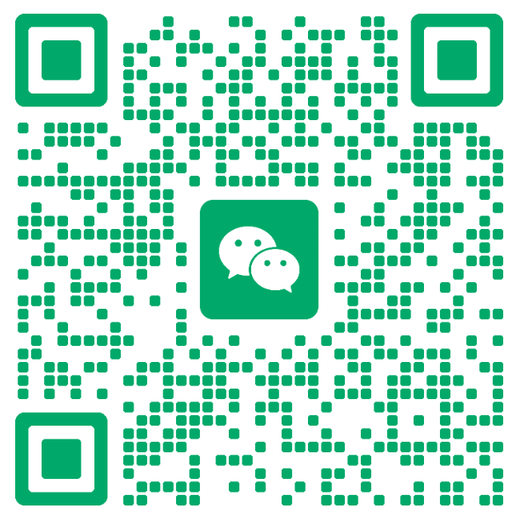
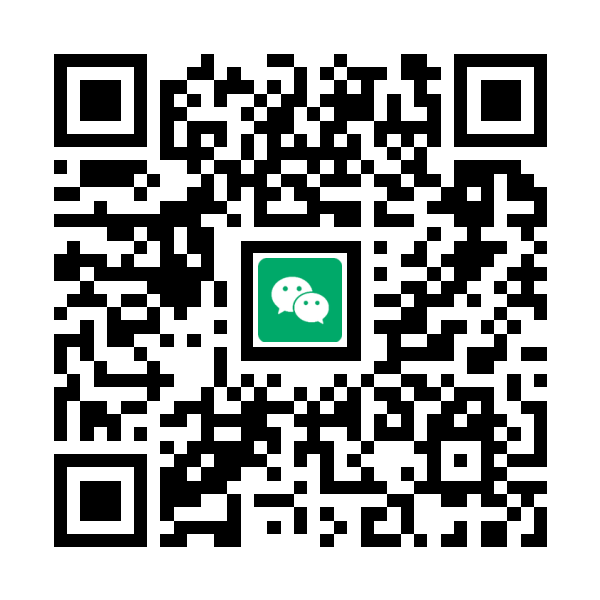
手机版商品列表先显示前3个小类+显示全部按钮；二维码不再包在链接里，可长按；微信二维码重做（加白边，标准黑白）；点二维码放大
Claude-Session: https://claude.ai/code/session_01EapkdAZuY1J5DZKGNmtVd8

diff --git a/index.html b/index.html
@@ -578,7 +578,7 @@ legend{font-family:var(--en-display);font-size:13px;letter-spacing:.1em;text-tra
 .altbtn:hover{border-color:var(--green)}
 .contact .qrs{display:flex!important;flex-direction:row!important;gap:12px;flex-wrap:wrap;margin-top:6px;grid-template-columns:none}
 .contact .qr{display:grid;justify-items:center;flex:0 0 auto;gap:2px;text-decoration:none;color:inherit;background:#fff;border:1px solid var(--line);border-radius:10px;padding:10px;width:150px;text-align:center}
-.qr img{width:130px;height:130px}.qr b{font-size:14px;color:#222}.qr small{font-size:11px;color:#666}
+.qr img{width:130px;height:130px}.qr img,.wxqr,.qrlb img{-webkit-touch-callout:default!important;-webkit-user-select:auto;user-select:auto;pointer-events:auto;cursor:zoom-in}.qrbtn{margin-top:6px;display:block;width:100%;border:0;border-radius:8px;background:#25d366;color:#fff;font:inherit;font-size:12px;font-weight:700;padding:7px 4px;text-decoration:none;cursor:pointer}.qr:last-child .qrbtn{background:#07c160}@media(max-width:760px){.contact .qrs{flex-wrap:nowrap;gap:8px}.contact .qr{flex:1 1 0;width:auto;min-width:0;padding:7px}.contact .qr img{width:100%;height:auto;aspect-ratio:1}.qrbtn{font-size:12px;padding:7px 2px}}.qrlb{position:fixed;inset:0;z-index:9999;background:rgba(0,0,0,.82);display:flex;flex-direction:column;align-items:center;justify-content:center;gap:14px;padding:20px}.qrlb[hidden]{display:none!important}.qrlb img{width:min(78vw,340px);height:auto;background:#fff;border-radius:12px;padding:10px;cursor:default}.qrlb p{color:#fff;text-align:center;margin:0;font-size:14px;line-height:1.5;max-width:340px}.qrlb .qrx{background:#fff;color:#222;border:0;border-radius:20px;padding:9px 22px;font:inherit;font-weight:700}.listmore{grid-column:1/-1;display:flex;justify-content:center;margin:14px 0 4px}.listmore .more{width:100%;max-width:420px;padding:12px;font-size:15px}.qr b{font-size:14px;color:#222}.qr small{font-size:11px;color:#666}
 .wxbox{border:1px solid var(--line);border-radius:10px;padding:12px 14px;margin:8px 0;background:var(--surface);font-size:14px}
 .wxbox ol{margin:6px 0 8px;padding-left:20px}.wxbox li{margin:4px 0}
 .wxok{margin:0;font-weight:700;color:#07a35a}
@@ -835,9 +835,9 @@ button.wa{width:100%;border:0;cursor:pointer;font-family:inherit}
       <div><strong><span class="lz">地址</span> <span class="le">Address</span></strong><span>29–37 Beast Market<br>Huddersfield<br>HD1 1QF</span><span class="since2"><span class="lz">自 2007 年起在 Beast Market 营业</span><span class="lb"> · </span><span class="le">On Beast Market since 2007</span></span><a class="copy" href="https://www.google.com/maps/search/?api=1&query=29-37+Beast+Market+Huddersfield+HD1+1QF" target="_blank" rel="noopener" style="text-decoration:none"><span class="lz">在地图中打开</span> <span class="le">Open in Maps</span></a></div>
       <div><strong><span class="lz">邮箱</span> <span class="le">Email</span></strong><span>info@dongdong.co.uk</span></div>
       <div class="qrs">
-        <a class="qr" href="https://wa.me/447546185999" target="_blank" rel="noopener"><img src="img/whatsapp_qr.png" alt="WhatsApp 二维码 WhatsApp QR code" width="140" height="140" loading="lazy"><b>WhatsApp</b><small><span class="lz">扫码或点击聊天</span><span class="lb"> · </span><span class="le">Scan or tap to chat</span></small></a>
-        <a class="qr" href="https://whatsapp.com/channel/0029VbEYhPw0AgW9nWthc21L" target="_blank" rel="noopener"><img src="img/wa_channel_qr.png" alt="WhatsApp 频道二维码 WhatsApp Channel QR code" width="140" height="140" loading="lazy"><b><span class="lz">频道</span><span class="lb"> </span><span class="le">Channel</span></b><small><span class="lz">关注看新货、特价</span><span class="lb"> · </span><span class="le">New in &amp; offers</span></small></a>
-        <a class="qr" href="img/wechat_qr.png" download="东东超市微信二维码.png"><img src="img/wechat_qr.png" alt="微信二维码 WeChat QR code" width="140" height="140" loading="lazy"><b><span class="lz">微信</span><span class="lb"> </span><span class="le">WeChat</span></b><small><span class="lz">扫码加好友 · 点击保存</span><span class="lb"> · </span><span class="le">Scan to add · tap to save</span></small></a>
+        <div class="qr"><img src="img/whatsapp_qr.png" alt="WhatsApp 二维码 WhatsApp QR code" width="140" height="140" loading="lazy" data-qrbig="whatsapp"><b>WhatsApp</b><a class="qrbtn" href="https://wa.me/447546185999" target="_blank" rel="noopener"><span class="lz">点击聊天</span><span class="lb"> </span><span class="le">Chat</span></a></div>
+        <div class="qr"><img src="img/wa_channel_qr.png" alt="WhatsApp 频道二维码 WhatsApp Channel QR code" width="140" height="140" loading="lazy" data-qrbig="channel"><b><span class="lz">频道</span><span class="lb"> </span><span class="le">Channel</span></b><a class="qrbtn" href="https://whatsapp.com/channel/0029VbEYhPw0AgW9nWthc21L" target="_blank" rel="noopener"><span class="lz">点击关注</span><span class="lb"> </span><span class="le">Follow</span></a></div>
+        <div class="qr"><img src="img/wechat_qr.png" alt="微信二维码 WeChat QR code" width="140" height="140" loading="lazy" data-qrbig="wechat"><b><span class="lz">微信</span><span class="lb"> </span><span class="le">WeChat</span></b><button type="button" class="qrbtn" data-saveqr="img/wechat_qr.png"><span class="lz">保存图片</span><span class="lb"> </span><span class="le">Save</span></button></div>
       </div>
     </div>
     <div style="display:grid;gap:18px;align-content:start"><div><h3><span class="lz">付款方式</span><span class="lb"> · </span><span class="le">Payment</span></h3><p style="margin:0"><span class="lz">到店：现金、刷卡、非接触支付、银行转账、人民币付款<br>送货：现金、银行转账、人民币付款</span><span class="le blk en">In store: cash, card, contactless, bank transfer<br>Delivery: cash, bank transfer</span></p></div>
@@ -918,8 +918,8 @@ button.wa{width:100%;border:0;cursor:pointer;font-family:inherit}
         <li><span class="lz">加东東微信：扫下面的二维码。用这部手机的话，先长按二维码保存图片，再在微信"扫一扫"里点右下角"相册"选这张图。</span><span class="le blk">Add Dong Dong on WeChat: scan the QR code. On this phone, save the image first, then use WeChat Scan → Album.</span></li>
         <li><span class="lz">在和东東的对话里长按输入框，点"粘贴"，发送。</span><span class="le blk">In the chat, long-press the text box, paste and send.</span></li>
       </ol>
-      <img src="img/wechat_qr.png" alt="东東超市微信二维码 Dong Dong WeChat QR code" class="wxqr" width="220" height="220">
-      <div class="wxbtns"><a class="altbtn" href="img/wechat_qr.png" download="东东超市微信二维码.png"><span class="lz">保存二维码</span> <span class="le">Save QR</span></a><a class="altbtn" href="weixin://"><span class="lz">打开微信</span> <span class="le">Open WeChat</span></a></div>
+      <img src="img/wechat_qr.png" alt="东東超市微信二维码 Dong Dong WeChat QR code" class="wxqr" data-qrbig="wechat" width="220" height="220">
+      <div class="wxbtns"><button type="button" class="altbtn" data-saveqr="img/wechat_qr.png"><span class="lz">保存二维码</span> <span class="le">Save QR</span></button><a class="altbtn" href="weixin://"><span class="lz">打开微信</span> <span class="le">Open WeChat</span></a></div>
     </div>
     <p class="note" id="copyNote" hidden><span class="lz">订单已复制，可以粘贴到短信、微信或其他 App 发给我们（07546 185999）。</span><span class="le blk">Order copied. Paste it into a text message or any app and send it to 07546 185999.</span></p>
     <p class="note sendnote" data-for="wa"><span class="lz">订单会自动填好，在打开的 WhatsApp 里点一下发送 ➤ 就行。订单以我们回复确认为准，价格以店内为准。</span><span class="le blk">Your order is filled in for you. Just tap send ➤ in WhatsApp. Your order is confirmed once we reply.</span></p>
@@ -2897,6 +2897,7 @@ function _searchAll(raw){raw=toSimp(raw);const q=raw.toLowerCase().replace(/chil
   return full.length>=8?full.map(r=>r.p):full.concat(part.slice(0,40)).map(r=>r.p);}
 // 分区首页每个小类先显示几样
 const openGroups=new Set(); // 已展开的小类
+const MOB=matchMedia("(max-width:760px)").matches,GRP_SHOW=3,FLAT_SHOW=24;let listAll=false,listKey=""; /* 手机版：先只显示前几个小类/前24样，底部"显示全部"按钮，方便往下看到联系方式和二维码 */
 const GROUP_N=matchMedia("(max-width:760px)").matches?4:8;
 const GROUP_N_MIN={soy:6};  // 某些分类手机上多显示几样（酱油：海天生抽/老抽、李锦记生抽/老抽、珠江桥生抽/老抽）
 const GN=id=>Math.max(GROUP_N,GROUP_N_MIN[id]||0);
@@ -2916,13 +2917,18 @@ function render(){
     const groups=agroup?CATS.filter(c=>c.id!=="all").map(c=>({c,items:list.filter(p=>p.c===c.id)})).filter(g=>g.items.length).sort((x,y)=>AGR(x)-AGR(y)):CATS.filter(c=>c.id!=="all"&&c.z===zone).map(c=>({c,items:list.filter(p=>inCat(p,c.id))})).filter(g=>g.items.length);
     const foldable=groups.filter(g=>g.items.length>GN(g.c.id)),allOpen=foldable.length&&foldable.every(g=>openGroups.has(g.c.id));
     const allBtn=foldable.length>1?`<div class="allfold"><button type="button" class="more allbtn" data-foldall="${allOpen?0:1}">${allOpen?B("全部收起","Collapse all")+" ⌃":B(`全部展开（${groups.reduce((n,g)=>n+g.items.length,0)} 样）`,`Show everything (${groups.reduce((n,g)=>n+g.items.length,0)})`)+" ⌄"}</button></div>`:"";
-    $("grid").innerHTML=allBtn+groups.map(g=>`<section class="grp" id="grp-${g.c.id}"><div class="grp-h"><h3>${B(g.c.zh,g.c.en,"en")}</h3><span class="grp-n">${g.items.length} ${B("样","items")}</span></div>
+    const gk=zone+"|"+q;if(gk!==listKey){listKey=gk;listAll=false;}
+    let gShow=groups.length;if(MOB&&!listAll&&groups.length>GRP_SHOW){let last=-1;groups.forEach((g,i)=>{if(openGroups.has(g.c.id))last=i;});gShow=Math.max(GRP_SHOW,last+1);}
+    const restN=groups.slice(gShow).reduce((n,g)=>n+g.items.length,0);
+    const moreBtn=gShow<groups.length?`<div class="listmore"><button type="button" class="more allbtn" data-listall="1">${B(`显示全部 ${groups.length} 个小类（还有 ${restN} 样）`,`Show all ${groups.length} sections (${restN} more)`)} ⌄</button></div>`:"";
+    $("grid").innerHTML=allBtn+groups.slice(0,gShow).map(g=>`<section class="grp" id="grp-${g.c.id}"><div class="grp-h"><h3>${B(g.c.zh,g.c.en,"en")}</h3><span class="grp-n">${g.items.length} ${B("样","items")}</span></div>
       <div class="grp-list">${(openGroups.has(g.c.id)?g.items:g.items.slice(0,GN(g.c.id))).map(cardHTML).join("")}</div>
       ${g.items.length>GN(g.c.id)?(openGroups.has(g.c.id)
         ?`<button type="button" class="more" data-fold="${g.c.id}">${B("收起","Show less")} ⌃</button>`
-        :`<button type="button" class="more" data-fold="${g.c.id}">${B(`展开全部 ${g.items.length} 样`,`Show all ${g.items.length}`)} ⌄</button>`):""}</section>`).join("");
+        :`<button type="button" class="more" data-fold="${g.c.id}">${B(`展开全部 ${g.items.length} 样`,`Show all ${g.items.length}`)} ⌄</button>`):""}</section>`).join("")+moreBtn;
     spy();
-  }else $("grid").innerHTML=list.map(cardHTML).join("");
+  }else{const gk=zone+"|"+q;if(gk!==listKey){listKey=gk;listAll=false;}const n=(MOB&&!listAll&&list.length>FLAT_SHOW+6)?FLAT_SHOW:list.length;
+    $("grid").innerHTML=list.slice(0,n).map(cardHTML).join("")+(n<list.length?`<div class="listmore"><button type="button" class="more allbtn" data-listall="1">${B(`显示全部 ${list.length} 样（还有 ${list.length-n} 样）`,`Show all ${list.length} items (${list.length-n} more)`)} ⌄</button></div>`:"");}
   $("empty").hidden=true;
   {const box=$("askbox");if(box){const qq=q?String(q).trim():"";box.classList.toggle("big",!!qq&&!list.length);
     $("askZ").textContent=qq?(list.length?`没找到想要的“${qq}”？`:`网站上暂时没有“${qq}”`):"找不到想要的商品？";
@@ -3146,7 +3152,7 @@ function applyLang(){const h=document.documentElement;h.dataset.lang=LANG;h.lang
   document.querySelectorAll(".langsw button").forEach(b=>b.setAttribute("aria-pressed",b.dataset.lang===LANG));}
 document.querySelector(".langsw").addEventListener("click",e=>{const b=e.target.closest("button");if(!b)return;
   LANG=b.dataset.lang;try{localStorage.setItem("dd-lang",LANG)}catch(err){}applyLang();renderCart();});
-$("grid").addEventListener("click",e=>{const fa=e.target.closest("[data-foldall]");if(fa){const on=fa.dataset.foldall==="1";[...document.querySelectorAll("#grid [data-fold]")].forEach(x=>on?openGroups.add(x.dataset.fold):openGroups.delete(x.dataset.fold));render();if(!on)window.scrollTo({top:document.getElementById("grid").getBoundingClientRect().top+scrollY-120});return;}const b=e.target.closest("[data-fold]");if(!b)return;
+$("grid").addEventListener("click",e=>{if(e.target.closest("[data-listall]")){listAll=true;const y=scrollY;render();scrollTo(0,y);return;}const fa=e.target.closest("[data-foldall]");if(fa){const on=fa.dataset.foldall==="1";[...document.querySelectorAll("#grid [data-fold]")].forEach(x=>on?openGroups.add(x.dataset.fold):openGroups.delete(x.dataset.fold));render();if(!on)window.scrollTo({top:document.getElementById("grid").getBoundingClientRect().top+scrollY-120});return;}const b=e.target.closest("[data-fold]");if(!b)return;
   const id=b.dataset.fold,was=openGroups.has(id);was?openGroups.delete(id):openGroups.add(id);render();
   if(was){const g=document.getElementById("grp-"+id);if(g&&g.getBoundingClientRect().top<0)g.scrollIntoView({block:"start"});}});
 // 左边小类跟随滚动高亮
@@ -3170,6 +3176,16 @@ $("dot").classList.toggle("closed",!open);
 $("copyTel").addEventListener("click",()=>{const el=$("tel");
   navigator.clipboard?.writeText(el.textContent).then(()=>{$("copyTel").innerHTML=B("已复制","Copied")}).catch(()=>{const r=document.createRange();r.selectNodeContents(el);const s=getSelection();s.removeAllRanges();s.addRange(r);});});
 </script>
+
+<div class="qrlb" id="qrlb" hidden role="dialog" aria-modal="true"><img id="qrlbImg" alt=""><p id="qrlbTip"></p><button type="button" class="qrx" id="qrlbX"><span class="lz">关闭</span> <span class="le">Close</span></button></div>
+<script>(function(){const T={wechat:["东東超市微信 · WeChat","长按二维码可以保存图片；在微信里打开网站时，长按可直接“识别图中二维码”。别的手机可以直接扫这张大图。","Long-press to save the image. Or scan this with another phone."],whatsapp:["WhatsApp","用另一部手机扫这个二维码，或直接点绿色按钮聊天。","Scan with another phone, or tap the green button to chat."],channel:["WhatsApp Channel","用另一部手机扫这个二维码，或点绿色按钮关注。","Scan with another phone, or tap the green button to follow."]};
+const lb=document.getElementById("qrlb"),im=document.getElementById("qrlbImg"),tp=document.getElementById("qrlbTip");
+function show(u,k,alt){const t=T[k]||T.wechat;im.src=u;im.alt=alt||t[0];tp.innerHTML="<b>"+t[0]+"</b><br><span class=\"lz\">"+t[1]+"</span><span class=\"le blk\">"+t[2]+"</span>";lb.hidden=false;}
+document.addEventListener("click",e=>{const i=e.target.closest("img[data-qrbig]");if(i&&!lb.contains(i)){show(i.getAttribute("src"),i.dataset.qrbig,i.alt);return;}
+  if(e.target===lb||e.target.closest("#qrlbX")){lb.hidden=true;return;}
+  const sv=e.target.closest("[data-saveqr]");if(sv){e.preventDefault();const u=sv.dataset.saveqr,name="dongdong-wechat-qr.png";
+    fetch(u).then(r=>r.blob()).then(b=>{const f=new File([b],name,{type:"image/png"});if(navigator.canShare&&navigator.canShare({files:[f]}))return navigator.share({files:[f]}).catch(()=>{});const a=document.createElement("a");a.href=URL.createObjectURL(b);a.download=name;document.body.appendChild(a);a.click();setTimeout(()=>{URL.revokeObjectURL(a.href);a.remove()},1000);}).catch(()=>show(u,"wechat"));}});
+addEventListener("keydown",e=>{if(e.key==="Escape")lb.hidden=true;});})();</script>
 
 <script>
 (function(){

diff --git a/classic.html b/classic.html
@@ -395,7 +395,7 @@ legend{font-family:var(--en-display);font-size:13px;letter-spacing:.1em;text-tra
 .altbtn:hover{border-color:var(--green)}
 .contact .qrs{display:flex!important;flex-direction:row!important;gap:12px;flex-wrap:wrap;margin-top:6px;grid-template-columns:none}
 .contact .qr{display:grid;justify-items:center;flex:0 0 auto;gap:2px;text-decoration:none;color:inherit;background:#fff;border:1px solid var(--line);border-radius:10px;padding:10px;width:150px;text-align:center}
-.qr img{width:130px;height:130px}.qr b{font-size:14px;color:#222}.qr small{font-size:11px;color:#666}
+.qr img{width:130px;height:130px}.qr img,.wxqr,.qrlb img{-webkit-touch-callout:default!important;-webkit-user-select:auto;user-select:auto;pointer-events:auto;cursor:zoom-in}.qrbtn{margin-top:6px;display:block;width:100%;border:0;border-radius:8px;background:#25d366;color:#fff;font:inherit;font-size:12px;font-weight:700;padding:7px 4px;text-decoration:none;cursor:pointer}.qr:last-child .qrbtn{background:#07c160}@media(max-width:760px){.contact .qrs{flex-wrap:nowrap;gap:8px}.contact .qr{flex:1 1 0;width:auto;min-width:0;padding:7px}.contact .qr img{width:100%;height:auto;aspect-ratio:1}.qrbtn{font-size:12px;padding:7px 2px}}.qrlb{position:fixed;inset:0;z-index:9999;background:rgba(0,0,0,.82);display:flex;flex-direction:column;align-items:center;justify-content:center;gap:14px;padding:20px}.qrlb[hidden]{display:none!important}.qrlb img{width:min(78vw,340px);height:auto;background:#fff;border-radius:12px;padding:10px;cursor:default}.qrlb p{color:#fff;text-align:center;margin:0;font-size:14px;line-height:1.5;max-width:340px}.qrlb .qrx{background:#fff;color:#222;border:0;border-radius:20px;padding:9px 22px;font:inherit;font-weight:700}.listmore{grid-column:1/-1;display:flex;justify-content:center;margin:14px 0 4px}.listmore .more{width:100%;max-width:420px;padding:12px;font-size:15px}.qr b{font-size:14px;color:#222}.qr small{font-size:11px;color:#666}
 .wxbox{border:1px solid var(--line);border-radius:10px;padding:12px 14px;margin:8px 0;background:var(--surface);font-size:14px}
 .wxbox ol{margin:6px 0 8px;padding-left:20px}.wxbox li{margin:4px 0}
 .wxok{margin:0;font-weight:700;color:#07a35a}
@@ -654,9 +654,9 @@ button.wa{width:100%;border:0;cursor:pointer;font-family:inherit}
       <div><strong><span class="lz">地址</span> <span class="le">Address</span></strong><span>29–37 Beast Market<br>Huddersfield<br>HD1 1QF</span><span class="since2"><span class="lz">自 2007 年起在 Beast Market 营业</span><span class="lb"> · </span><span class="le">On Beast Market since 2007</span></span><a class="copy" href="https://www.google.com/maps/search/?api=1&query=29-37+Beast+Market+Huddersfield+HD1+1QF" target="_blank" rel="noopener" style="text-decoration:none"><span class="lz">在地图中打开</span> <span class="le">Open in Maps</span></a></div>
       <div><strong><span class="lz">邮箱</span> <span class="le">Email</span></strong><span>info@dongdong.co.uk</span></div>
       <div class="qrs">
-        <a class="qr" href="https://wa.me/447546185999" target="_blank" rel="noopener"><img src="img/whatsapp_qr.png" alt="WhatsApp 二维码 WhatsApp QR code" width="140" height="140" loading="lazy"><b>WhatsApp</b><small><span class="lz">扫码或点击聊天</span><span class="lb"> · </span><span class="le">Scan or tap to chat</span></small></a>
-        <a class="qr" href="https://whatsapp.com/channel/0029VbEYhPw0AgW9nWthc21L" target="_blank" rel="noopener"><img src="img/wa_channel_qr.png" alt="WhatsApp 频道二维码 WhatsApp Channel QR code" width="140" height="140" loading="lazy"><b><span class="lz">频道</span><span class="lb"> </span><span class="le">Channel</span></b><small><span class="lz">关注看新货、特价</span><span class="lb"> · </span><span class="le">New in &amp; offers</span></small></a>
-        <a class="qr" href="img/wechat_qr.png" download="东东超市微信二维码.png"><img src="img/wechat_qr.png" alt="微信二维码 WeChat QR code" width="140" height="140" loading="lazy"><b><span class="lz">微信</span><span class="lb"> </span><span class="le">WeChat</span></b><small><span class="lz">扫码加好友 · 点击保存</span><span class="lb"> · </span><span class="le">Scan to add · tap to save</span></small></a>
+        <div class="qr"><img src="img/whatsapp_qr.png" alt="WhatsApp 二维码 WhatsApp QR code" width="140" height="140" loading="lazy" data-qrbig="whatsapp"><b>WhatsApp</b><a class="qrbtn" href="https://wa.me/447546185999" target="_blank" rel="noopener"><span class="lz">点击聊天</span><span class="lb"> </span><span class="le">Chat</span></a></div>
+        <div class="qr"><img src="img/wa_channel_qr.png" alt="WhatsApp 频道二维码 WhatsApp Channel QR code" width="140" height="140" loading="lazy" data-qrbig="channel"><b><span class="lz">频道</span><span class="lb"> </span><span class="le">Channel</span></b><a class="qrbtn" href="https://whatsapp.com/channel/0029VbEYhPw0AgW9nWthc21L" target="_blank" rel="noopener"><span class="lz">点击关注</span><span class="lb"> </span><span class="le">Follow</span></a></div>
+        <div class="qr"><img src="img/wechat_qr.png" alt="微信二维码 WeChat QR code" width="140" height="140" loading="lazy" data-qrbig="wechat"><b><span class="lz">微信</span><span class="lb"> </span><span class="le">WeChat</span></b><button type="button" class="qrbtn" data-saveqr="img/wechat_qr.png"><span class="lz">保存图片</span><span class="lb"> </span><span class="le">Save</span></button></div>
       </div>
     </div>
     <div style="display:grid;gap:18px;align-content:start"><div><h3><span class="lz">付款方式</span><span class="lb"> · </span><span class="le">Payment</span></h3><p style="margin:0"><span class="lz">到店：现金、刷卡、非接触支付、银行转账、人民币付款<br>送货：现金、银行转账、人民币付款</span><span class="le blk en">In store: cash, card, contactless, bank transfer<br>Delivery: cash, bank transfer</span></p></div>
@@ -737,8 +737,8 @@ button.wa{width:100%;border:0;cursor:pointer;font-family:inherit}
         <li><span class="lz">加东東微信：扫下面的二维码。用这部手机的话，先长按二维码保存图片，再在微信"扫一扫"里点右下角"相册"选这张图。</span><span class="le blk">Add Dong Dong on WeChat: scan the QR code. On this phone, save the image first, then use WeChat Scan → Album.</span></li>
         <li><span class="lz">在和东東的对话里长按输入框，点"粘贴"，发送。</span><span class="le blk">In the chat, long-press the text box, paste and send.</span></li>
       </ol>
-      <img src="img/wechat_qr.png" alt="东東超市微信二维码 Dong Dong WeChat QR code" class="wxqr" width="220" height="220">
-      <div class="wxbtns"><a class="altbtn" href="img/wechat_qr.png" download="东东超市微信二维码.png"><span class="lz">保存二维码</span> <span class="le">Save QR</span></a><a class="altbtn" href="weixin://"><span class="lz">打开微信</span> <span class="le">Open WeChat</span></a></div>
+      <img src="img/wechat_qr.png" alt="东東超市微信二维码 Dong Dong WeChat QR code" class="wxqr" data-qrbig="wechat" width="220" height="220">
+      <div class="wxbtns"><button type="button" class="altbtn" data-saveqr="img/wechat_qr.png"><span class="lz">保存二维码</span> <span class="le">Save QR</span></button><a class="altbtn" href="weixin://"><span class="lz">打开微信</span> <span class="le">Open WeChat</span></a></div>
     </div>
     <p class="note" id="copyNote" hidden><span class="lz">订单已复制，可以粘贴到短信、微信或其他 App 发给我们（07546 185999）。</span><span class="le blk">Order copied. Paste it into a text message or any app and send it to 07546 185999.</span></p>
     <p class="note sendnote" data-for="wa"><span class="lz">订单会自动填好，在打开的 WhatsApp 里点一下发送 ➤ 就行。订单以我们回复确认为准，价格以店内为准。</span><span class="le blk">Your order is filled in for you. Just tap send ➤ in WhatsApp. Your order is confirmed once we reply.</span></p>
@@ -2716,6 +2716,7 @@ function _searchAll(raw){raw=toSimp(raw);const q=raw.toLowerCase().replace(/chil
   return full.length>=8?full.map(r=>r.p):full.concat(part.slice(0,40)).map(r=>r.p);}
 // 分区首页每个小类先显示几样
 const openGroups=new Set(); // 已展开的小类
+const MOB=matchMedia("(max-width:760px)").matches,GRP_SHOW=3,FLAT_SHOW=24;let listAll=false,listKey=""; /* 手机版：先只显示前几个小类/前24样，底部"显示全部"按钮，方便往下看到联系方式和二维码 */
 const GROUP_N=matchMedia("(max-width:760px)").matches?4:8;
 const GROUP_N_MIN={soy:6};  // 某些分类手机上多显示几样（酱油：海天生抽/老抽、李锦记生抽/老抽、珠江桥生抽/老抽）
 const GN=id=>Math.max(GROUP_N,GROUP_N_MIN[id]||0);
@@ -2735,13 +2736,18 @@ function render(){
     const groups=agroup?CATS.filter(c=>c.id!=="all").map(c=>({c,items:list.filter(p=>p.c===c.id)})).filter(g=>g.items.length).sort((x,y)=>AGR(x)-AGR(y)):CATS.filter(c=>c.id!=="all"&&c.z===zone).map(c=>({c,items:list.filter(p=>inCat(p,c.id))})).filter(g=>g.items.length);
     const foldable=groups.filter(g=>g.items.length>GN(g.c.id)),allOpen=foldable.length&&foldable.every(g=>openGroups.has(g.c.id));
     const allBtn=foldable.length>1?`<div class="allfold"><button type="button" class="more allbtn" data-foldall="${allOpen?0:1}">${allOpen?B("全部收起","Collapse all")+" ⌃":B(`全部展开（${groups.reduce((n,g)=>n+g.items.length,0)} 样）`,`Show everything (${groups.reduce((n,g)=>n+g.items.length,0)})`)+" ⌄"}</button></div>`:"";
-    $("grid").innerHTML=allBtn+groups.map(g=>`<section class="grp" id="grp-${g.c.id}"><div class="grp-h"><h3>${B(g.c.zh,g.c.en,"en")}</h3><span class="grp-n">${g.items.length} ${B("样","items")}</span></div>
+    const gk=zone+"|"+q;if(gk!==listKey){listKey=gk;listAll=false;}
+    let gShow=groups.length;if(MOB&&!listAll&&groups.length>GRP_SHOW){let last=-1;groups.forEach((g,i)=>{if(openGroups.has(g.c.id))last=i;});gShow=Math.max(GRP_SHOW,last+1);}
+    const restN=groups.slice(gShow).reduce((n,g)=>n+g.items.length,0);
+    const moreBtn=gShow<groups.length?`<div class="listmore"><button type="button" class="more allbtn" data-listall="1">${B(`显示全部 ${groups.length} 个小类（还有 ${restN} 样）`,`Show all ${groups.length} sections (${restN} more)`)} ⌄</button></div>`:"";
+    $("grid").innerHTML=allBtn+groups.slice(0,gShow).map(g=>`<section class="grp" id="grp-${g.c.id}"><div class="grp-h"><h3>${B(g.c.zh,g.c.en,"en")}</h3><span class="grp-n">${g.items.length} ${B("样","items")}</span></div>
       <div class="grp-list">${(openGroups.has(g.c.id)?g.items:g.items.slice(0,GN(g.c.id))).map(cardHTML).join("")}</div>
       ${g.items.length>GN(g.c.id)?(openGroups.has(g.c.id)
         ?`<button type="button" class="more" data-fold="${g.c.id}">${B("收起","Show less")} ⌃</button>`
-        :`<button type="button" class="more" data-fold="${g.c.id}">${B(`展开全部 ${g.items.length} 样`,`Show all ${g.items.length}`)} ⌄</button>`):""}</section>`).join("");
+        :`<button type="button" class="more" data-fold="${g.c.id}">${B(`展开全部 ${g.items.length} 样`,`Show all ${g.items.length}`)} ⌄</button>`):""}</section>`).join("")+moreBtn;
     spy();
-  }else $("grid").innerHTML=list.map(cardHTML).join("");
+  }else{const gk=zone+"|"+q;if(gk!==listKey){listKey=gk;listAll=false;}const n=(MOB&&!listAll&&list.length>FLAT_SHOW+6)?FLAT_SHOW:list.length;
+    $("grid").innerHTML=list.slice(0,n).map(cardHTML).join("")+(n<list.length?`<div class="listmore"><button type="button" class="more allbtn" data-listall="1">${B(`显示全部 ${list.length} 样（还有 ${list.length-n} 样）`,`Show all ${list.length} items (${list.length-n} more)`)} ⌄</button></div>`:"");}
   $("empty").hidden=true;
   {const box=$("askbox");if(box){const qq=q?String(q).trim():"";box.classList.toggle("big",!!qq&&!list.length);
     $("askZ").textContent=qq?(list.length?`没找到想要的“${qq}”？`:`网站上暂时没有“${qq}”`):"找不到想要的商品？";
@@ -2965,7 +2971,7 @@ function applyLang(){const h=document.documentElement;h.dataset.lang=LANG;h.lang
   document.querySelectorAll(".langsw button").forEach(b=>b.setAttribute("aria-pressed",b.dataset.lang===LANG));}
 document.querySelector(".langsw").addEventListener("click",e=>{const b=e.target.closest("button");if(!b)return;
   LANG=b.dataset.lang;try{localStorage.setItem("dd-lang",LANG)}catch(err){}applyLang();renderCart();});
-$("grid").addEventListener("click",e=>{const fa=e.target.closest("[data-foldall]");if(fa){const on=fa.dataset.foldall==="1";[...document.querySelectorAll("#grid [data-fold]")].forEach(x=>on?openGroups.add(x.dataset.fold):openGroups.delete(x.dataset.fold));render();if(!on)window.scrollTo({top:document.getElementById("grid").getBoundingClientRect().top+scrollY-120});return;}const b=e.target.closest("[data-fold]");if(!b)return;
+$("grid").addEventListener("click",e=>{if(e.target.closest("[data-listall]")){listAll=true;const y=scrollY;render();scrollTo(0,y);return;}const fa=e.target.closest("[data-foldall]");if(fa){const on=fa.dataset.foldall==="1";[...document.querySelectorAll("#grid [data-fold]")].forEach(x=>on?openGroups.add(x.dataset.fold):openGroups.delete(x.dataset.fold));render();if(!on)window.scrollTo({top:document.getElementById("grid").getBoundingClientRect().top+scrollY-120});return;}const b=e.target.closest("[data-fold]");if(!b)return;
   const id=b.dataset.fold,was=openGroups.has(id);was?openGroups.delete(id):openGroups.add(id);render();
   if(was){const g=document.getElementById("grp-"+id);if(g&&g.getBoundingClientRect().top<0)g.scrollIntoView({block:"start"});}});
 // 左边小类跟随滚动高亮
@@ -2989,6 +2995,16 @@ $("dot").classList.toggle("closed",!open);
 $("copyTel").addEventListener("click",()=>{const el=$("tel");
   navigator.clipboard?.writeText(el.textContent).then(()=>{$("copyTel").innerHTML=B("已复制","Copied")}).catch(()=>{const r=document.createRange();r.selectNodeContents(el);const s=getSelection();s.removeAllRanges();s.addRange(r);});});
 </script>
+
+<div class="qrlb" id="qrlb" hidden role="dialog" aria-modal="true"><img id="qrlbImg" alt=""><p id="qrlbTip"></p><button type="button" class="qrx" id="qrlbX"><span class="lz">关闭</span> <span class="le">Close</span></button></div>
+<script>(function(){const T={wechat:["东東超市微信 · WeChat","长按二维码可以保存图片；在微信里打开网站时，长按可直接“识别图中二维码”。别的手机可以直接扫这张大图。","Long-press to save the image. Or scan this with another phone."],whatsapp:["WhatsApp","用另一部手机扫这个二维码，或直接点绿色按钮聊天。","Scan with another phone, or tap the green button to chat."],channel:["WhatsApp Channel","用另一部手机扫这个二维码，或点绿色按钮关注。","Scan with another phone, or tap the green button to follow."]};
+const lb=document.getElementById("qrlb"),im=document.getElementById("qrlbImg"),tp=document.getElementById("qrlbTip");
+function show(u,k,alt){const t=T[k]||T.wechat;im.src=u;im.alt=alt||t[0];tp.innerHTML="<b>"+t[0]+"</b><br><span class=\"lz\">"+t[1]+"</span><span class=\"le blk\">"+t[2]+"</span>";lb.hidden=false;}
+document.addEventListener("click",e=>{const i=e.target.closest("img[data-qrbig]");if(i&&!lb.contains(i)){show(i.getAttribute("src"),i.dataset.qrbig,i.alt);return;}
+  if(e.target===lb||e.target.closest("#qrlbX")){lb.hidden=true;return;}
+  const sv=e.target.closest("[data-saveqr]");if(sv){e.preventDefault();const u=sv.dataset.saveqr,name="dongdong-wechat-qr.png";
+    fetch(u).then(r=>r.blob()).then(b=>{const f=new File([b],name,{type:"image/png"});if(navigator.canShare&&navigator.canShare({files:[f]}))return navigator.share({files:[f]}).catch(()=>{});const a=document.createElement("a");a.href=URL.createObjectURL(b);a.download=name;document.body.appendChild(a);a.click();setTimeout(()=>{URL.revokeObjectURL(a.href);a.remove()},1000);}).catch(()=>show(u,"wechat"));}});
+addEventListener("keydown",e=>{if(e.key==="Escape")lb.hidden=true;});})();</script>
 
 </body>
 </html>
